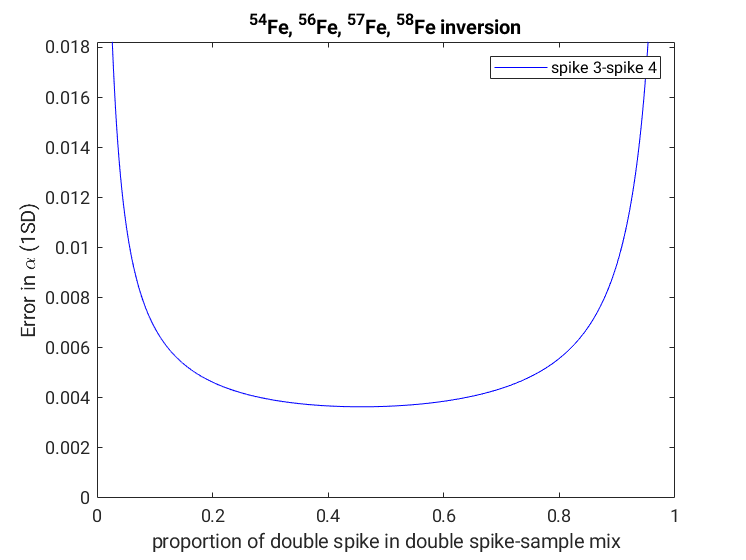
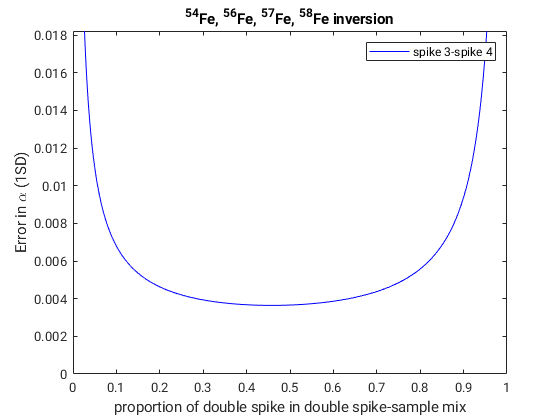
Fix typo in example. Update version number to 1.02

diff --git a/html/doublespike_product_page.html b/html/doublespike_product_page.html
@@ -6,7 +6,7 @@
    <!--
 This HTML was auto-generated from MATLAB code.
 To make changes, update the MATLAB code and republish this document.
-      --><title>A brief demonstration of the double spike toolbox</title><meta name="generator" content="MATLAB 9.9"><link rel="schema.DC" href="http://purl.org/dc/elements/1.1/"><meta name="DC.date" content="2021-11-18"><meta name="DC.source" content="example.m"><style type="text/css">
+      --><title>A brief demonstration of the double spike toolbox</title><meta name="generator" content="MATLAB 9.11"><link rel="schema.DC" href="http://purl.org/dc/elements/1.1/"><meta name="DC.date" content="2021-11-22"><meta name="DC.source" content="example.m"><style type="text/css">
 html,body,div,span,applet,object,iframe,h1,h2,h3,h4,h5,h6,p,blockquote,pre,a,abbr,acronym,address,big,cite,code,del,dfn,em,font,img,ins,kbd,q,s,samp,small,strike,strong,tt,var,b,u,i,center,dl,dt,dd,ol,ul,li,fieldset,form,label,legend,table,caption,tbody,tfoot,thead,tr,th,td{margin:0;padding:0;border:0;outline:0;font-size:100%;vertical-align:baseline;background:transparent}body{line-height:1}ol,ul{list-style:none}blockquote,q{quotes:none}blockquote:before,blockquote:after,q:before,q:after{content:'';content:none}:focus{outine:0}ins{text-decoration:none}del{text-decoration:line-through}table{border-collapse:collapse;border-spacing:0}
 
 html { min-height:100%; margin-bottom:1px; }
@@ -85,8 +85,8 @@ ans =
           isoname: {'Fe54'  'Fe56'  'Fe57'  'Fe58'}
          isolabel: {'^{54}Fe'  '^{56}Fe'  '^{57}Fe'  '^{58}Fe'}
           element: 'Fe'
-         isoindex: [1x58 double]
-      revisoindex: [1x58 double]
+         isoindex: [1 2 3 4 0 0 0 0 0 0 0 0 0 0 0 0 0 0 0 0 0 0 0 0 0 0 ... ]
+      revisoindex: [54 56 57 58 0 0 0 0 0 0 0 0 0 0 0 0 0 0 0 0 0 0 0 0 ... ]
             nisos: 4
           nratios: 3
           nspikes: 4
@@ -396,16 +396,16 @@ measured(1:10,:)
 </pre><pre class="codeoutput">
 ans =
 
-    0.2658    4.4861    2.6303    2.6179
-    0.2658    4.4859    2.6304    2.6180
-    0.2657    4.4859    2.6303    2.6180
-    0.2657    4.4861    2.6303    2.6179
+    0.2658    4.4861    2.6302    2.6180
+    0.2658    4.4858    2.6303    2.6180
+    0.2658    4.4862    2.6302    2.6182
+    0.2658    4.4860    2.6304    2.6179
     0.2657    4.4861    2.6304    2.6180
-    0.2657    4.4861    2.6303    2.6180
+    0.2658    4.4859    2.6304    2.6181
+    0.2658    4.4861    2.6304    2.6179
+    0.2658    4.4859    2.6304    2.6179
+    0.2657    4.4859    2.6301    2.6180
     0.2658    4.4859    2.6304    2.6178
-    0.2657    4.4861    2.6303    2.6180
-    0.2657    4.4860    2.6303    2.6180
-    0.2657    4.4860    2.6305    2.6180
 
 </pre><h2 id="16">Double spike inversions</h2><p><i>dsinversion</i> performs the double spike inversion. Here we run the double spike inversion on the Monte-Carlo generated data with the chosen spike. We then produce a figure showing how the value of alpha varies over the run.</p><pre class="codeinput">out=dsinversion(<span class="string">'Fe'</span>,measured,spike);
 figure(8);
@@ -416,7 +416,7 @@ predictederror=errorestimate(<span class="string">'Fe'</span>,0.5,spike,[],[],-0
 </pre><pre class="codeoutput">
 monteerror =
 
-    0.0035
+    0.0036
 
 
 predictederror =
@@ -465,9 +465,9 @@ ans =
 
     0.6757
 
-</pre><h2 id="20">Error model 3</h2><p>The default error model of the double spike toolbox fixes the total voltage of the beams for the overall mixture at a given level. When sample-limited it may be more appropriate to consider an error model where the voltage for the sample is fixed (see John 2012, J. Anal. At. Spectrom.). In the toolbox this can be achieved by changing the error model type from 'fixed-total' to 'fixed-sample' The code below recreates Figure 8 of Klaver and Coath 2018, Geostandards and Geoanalytical Research.</p><pre class="codeinput">isoinv = [58 60 61 62]
-spike6062 = [0.0132 0.3295 0.0014 0.6547 0.0012]
-spike6162 = [0.0109 0.0081 0.4496 0.5297 0.0017]
+</pre><h2 id="20">Error model 3</h2><p>The default error model of the double spike toolbox fixes the total voltage of the beams for the overall mixture at a given level. When sample-limited it may be more appropriate to consider an error model where the voltage for the sample is fixed (see John 2012, J. Anal. At. Spectrom.). In the toolbox this can be achieved by changing the error model type from 'fixed-total' to 'fixed-sample'. The code below recreates Figure 8 of Klaver and Coath 2018, Geostandards and Geoanalytical Research.</p><pre class="codeinput">isoinv = [58 60 61 62];
+spike6062 = [0.0132 0.3295 0.0014 0.6547 0.0012];
+spike6162 = [0.0109 0.0081 0.4496 0.5297 0.0017];
 
 seterrormodel()
 <span class="comment">% fix the sample intensity at 0.5 V for all runs</span>
@@ -480,22 +480,7 @@ errorcurve(<span class="string">'Ni'</span>, spike6162, isoinv);
 ylim([0 0.06]);
 legend(<span class="string">'^{60}Ni-^{62}Ni spike'</span>, <span class="string">'^{61}Ni-^{62}Ni spike'</span>)
 seterrormodel(); <span class="comment">% return error model to defaults</span>
-</pre><pre class="codeoutput">
-isoinv =
-
-    58    60    61    62
-
-
-spike6062 =
-
-    0.0132    0.3295    0.0014    0.6547    0.0012
-
-
-spike6162 =
-
-    0.0109    0.0081    0.4496    0.5297    0.0017
-
-</pre><img vspace="5" hspace="5" src="example_09.png" alt=""> <p class="footer"><br><a href="https://www.mathworks.com/products/matlab/">Published with MATLAB&reg; R2020b</a><br></p></div><!--
+</pre><img vspace="5" hspace="5" src="example_09.png" alt=""> <p class="footer"><br><a href="https://www.mathworks.com/products/matlab/">Published with MATLAB&reg; R2021b</a><br></p></div><!--
 ##### SOURCE BEGIN #####
 %% A brief demonstration of the double spike toolbox
 % This is a quick guide to the main features of the double spike toolbox.
@@ -658,11 +643,11 @@ seterrormodel(); % return error model to defaults
 % The default error model of the double spike toolbox fixes the total voltage of the beams for the overall
 % mixture at a given level. When sample-limited it may be more appropriate to consider an error model
 % where the voltage for the sample is fixed (see John 2012, J. Anal. At. Spectrom.).
-% In the toolbox this can be achieved by changing the error model type from 'fixed-total' to 'fixed-sample'
+% In the toolbox this can be achieved by changing the error model type from 'fixed-total' to 'fixed-sample'.
 % The code below recreates Figure 8 of Klaver and Coath 2018, Geostandards and Geoanalytical Research.
-isoinv = [58 60 61 62]
-spike6062 = [0.0132 0.3295 0.0014 0.6547 0.0012]
-spike6162 = [0.0109 0.0081 0.4496 0.5297 0.0017]
+isoinv = [58 60 61 62];
+spike6062 = [0.0132 0.3295 0.0014 0.6547 0.0012];
+spike6162 = [0.0109 0.0081 0.4496 0.5297 0.0017];
 
 seterrormodel()
 % fix the sample intensity at 0.5 V for all runs

diff --git a/html/example.html b/html/example.html
@@ -6,7 +6,7 @@
    <!--
 This HTML was auto-generated from MATLAB code.
 To make changes, update the MATLAB code and republish this document.
-      --><title>A brief demonstration of the double spike toolbox</title><meta name="generator" content="MATLAB 9.9"><link rel="schema.DC" href="http://purl.org/dc/elements/1.1/"><meta name="DC.date" content="2021-11-18"><meta name="DC.source" content="example.m"><style type="text/css">
+      --><title>A brief demonstration of the double spike toolbox</title><meta name="generator" content="MATLAB 9.11"><link rel="schema.DC" href="http://purl.org/dc/elements/1.1/"><meta name="DC.date" content="2021-11-22"><meta name="DC.source" content="example.m"><style type="text/css">
 html,body,div,span,applet,object,iframe,h1,h2,h3,h4,h5,h6,p,blockquote,pre,a,abbr,acronym,address,big,cite,code,del,dfn,em,font,img,ins,kbd,q,s,samp,small,strike,strong,tt,var,b,u,i,center,dl,dt,dd,ol,ul,li,fieldset,form,label,legend,table,caption,tbody,tfoot,thead,tr,th,td{margin:0;padding:0;border:0;outline:0;font-size:100%;vertical-align:baseline;background:transparent}body{line-height:1}ol,ul{list-style:none}blockquote,q{quotes:none}blockquote:before,blockquote:after,q:before,q:after{content:'';content:none}:focus{outine:0}ins{text-decoration:none}del{text-decoration:line-through}table{border-collapse:collapse;border-spacing:0}
 
 html { min-height:100%; margin-bottom:1px; }
@@ -85,8 +85,8 @@ ans =
           isoname: {'Fe54'  'Fe56'  'Fe57'  'Fe58'}
          isolabel: {'^{54}Fe'  '^{56}Fe'  '^{57}Fe'  '^{58}Fe'}
           element: 'Fe'
-         isoindex: [1x58 double]
-      revisoindex: [1x58 double]
+         isoindex: [1 2 3 4 0 0 0 0 0 0 0 0 0 0 0 0 0 0 0 0 0 0 0 0 0 0 ... ]
+      revisoindex: [54 56 57 58 0 0 0 0 0 0 0 0 0 0 0 0 0 0 0 0 0 0 0 0 ... ]
             nisos: 4
           nratios: 3
           nspikes: 4
@@ -396,16 +396,16 @@ measured(1:10,:)
 </pre><pre class="codeoutput">
 ans =
 
-    0.2658    4.4861    2.6303    2.6179
-    0.2658    4.4859    2.6304    2.6180
-    0.2657    4.4859    2.6303    2.6180
-    0.2657    4.4861    2.6303    2.6179
+    0.2658    4.4861    2.6302    2.6180
+    0.2658    4.4858    2.6303    2.6180
+    0.2658    4.4862    2.6302    2.6182
+    0.2658    4.4860    2.6304    2.6179
     0.2657    4.4861    2.6304    2.6180
-    0.2657    4.4861    2.6303    2.6180
+    0.2658    4.4859    2.6304    2.6181
+    0.2658    4.4861    2.6304    2.6179
+    0.2658    4.4859    2.6304    2.6179
+    0.2657    4.4859    2.6301    2.6180
     0.2658    4.4859    2.6304    2.6178
-    0.2657    4.4861    2.6303    2.6180
-    0.2657    4.4860    2.6303    2.6180
-    0.2657    4.4860    2.6305    2.6180
 
 </pre><h2 id="16">Double spike inversions</h2><p><i>dsinversion</i> performs the double spike inversion. Here we run the double spike inversion on the Monte-Carlo generated data with the chosen spike. We then produce a figure showing how the value of alpha varies over the run.</p><pre class="codeinput">out=dsinversion(<span class="string">'Fe'</span>,measured,spike);
 figure(8);
@@ -416,7 +416,7 @@ predictederror=errorestimate(<span class="string">'Fe'</span>,0.5,spike,[],[],-0
 </pre><pre class="codeoutput">
 monteerror =
 
-    0.0035
+    0.0036
 
 
 predictederror =
@@ -465,9 +465,9 @@ ans =
 
     0.6757
 
-</pre><h2 id="20">Error model 3</h2><p>The default error model of the double spike toolbox fixes the total voltage of the beams for the overall mixture at a given level. When sample-limited it may be more appropriate to consider an error model where the voltage for the sample is fixed (see John 2012, J. Anal. At. Spectrom.). In the toolbox this can be achieved by changing the error model type from 'fixed-total' to 'fixed-sample' The code below recreates Figure 8 of Klaver and Coath 2018, Geostandards and Geoanalytical Research.</p><pre class="codeinput">isoinv = [58 60 61 62]
-spike6062 = [0.0132 0.3295 0.0014 0.6547 0.0012]
-spike6162 = [0.0109 0.0081 0.4496 0.5297 0.0017]
+</pre><h2 id="20">Error model 3</h2><p>The default error model of the double spike toolbox fixes the total voltage of the beams for the overall mixture at a given level. When sample-limited it may be more appropriate to consider an error model where the voltage for the sample is fixed (see John 2012, J. Anal. At. Spectrom.). In the toolbox this can be achieved by changing the error model type from 'fixed-total' to 'fixed-sample'. The code below recreates Figure 8 of Klaver and Coath 2018, Geostandards and Geoanalytical Research.</p><pre class="codeinput">isoinv = [58 60 61 62];
+spike6062 = [0.0132 0.3295 0.0014 0.6547 0.0012];
+spike6162 = [0.0109 0.0081 0.4496 0.5297 0.0017];
 
 seterrormodel()
 <span class="comment">% fix the sample intensity at 0.5 V for all runs</span>
@@ -480,22 +480,7 @@ errorcurve(<span class="string">'Ni'</span>, spike6162, isoinv);
 ylim([0 0.06]);
 legend(<span class="string">'^{60}Ni-^{62}Ni spike'</span>, <span class="string">'^{61}Ni-^{62}Ni spike'</span>)
 seterrormodel(); <span class="comment">% return error model to defaults</span>
-</pre><pre class="codeoutput">
-isoinv =
-
-    58    60    61    62
-
-
-spike6062 =
-
-    0.0132    0.3295    0.0014    0.6547    0.0012
-
-
-spike6162 =
-
-    0.0109    0.0081    0.4496    0.5297    0.0017
-
-</pre><img vspace="5" hspace="5" src="example_09.png" alt=""> <p class="footer"><br><a href="https://www.mathworks.com/products/matlab/">Published with MATLAB&reg; R2020b</a><br></p></div><!--
+</pre><img vspace="5" hspace="5" src="example_09.png" alt=""> <p class="footer"><br><a href="https://www.mathworks.com/products/matlab/">Published with MATLAB&reg; R2021b</a><br></p></div><!--
 ##### SOURCE BEGIN #####
 %% A brief demonstration of the double spike toolbox
 % This is a quick guide to the main features of the double spike toolbox.
@@ -658,11 +643,11 @@ seterrormodel(); % return error model to defaults
 % The default error model of the double spike toolbox fixes the total voltage of the beams for the overall
 % mixture at a given level. When sample-limited it may be more appropriate to consider an error model
 % where the voltage for the sample is fixed (see John 2012, J. Anal. At. Spectrom.).
-% In the toolbox this can be achieved by changing the error model type from 'fixed-total' to 'fixed-sample'
+% In the toolbox this can be achieved by changing the error model type from 'fixed-total' to 'fixed-sample'.
 % The code below recreates Figure 8 of Klaver and Coath 2018, Geostandards and Geoanalytical Research.
-isoinv = [58 60 61 62]
-spike6062 = [0.0132 0.3295 0.0014 0.6547 0.0012]
-spike6162 = [0.0109 0.0081 0.4496 0.5297 0.0017]
+isoinv = [58 60 61 62];
+spike6062 = [0.0132 0.3295 0.0014 0.6547 0.0012];
+spike6162 = [0.0109 0.0081 0.4496 0.5297 0.0017];
 
 seterrormodel()
 % fix the sample intensity at 0.5 V for all runs

diff --git a/example.m b/example.m
@@ -159,11 +159,11 @@ seterrormodel(); % return error model to defaults
 % The default error model of the double spike toolbox fixes the total voltage of the beams for the overall
 % mixture at a given level. When sample-limited it may be more appropriate to consider an error model
 % where the voltage for the sample is fixed (see John 2012, J. Anal. At. Spectrom.).
-% In the toolbox this can be achieved by changing the error model type from 'fixed-total' to 'fixed-sample'
+% In the toolbox this can be achieved by changing the error model type from 'fixed-total' to 'fixed-sample'.
 % The code below recreates Figure 8 of Klaver and Coath 2018, Geostandards and Geoanalytical Research.
-isoinv = [58 60 61 62]
-spike6062 = [0.0132 0.3295 0.0014 0.6547 0.0012]
-spike6162 = [0.0109 0.0081 0.4496 0.5297 0.0017]
+isoinv = [58 60 61 62];
+spike6062 = [0.0132 0.3295 0.0014 0.6547 0.0012];
+spike6162 = [0.0109 0.0081 0.4496 0.5297 0.0017];
 
 seterrormodel()
 % fix the sample intensity at 0.5 V for all runs
